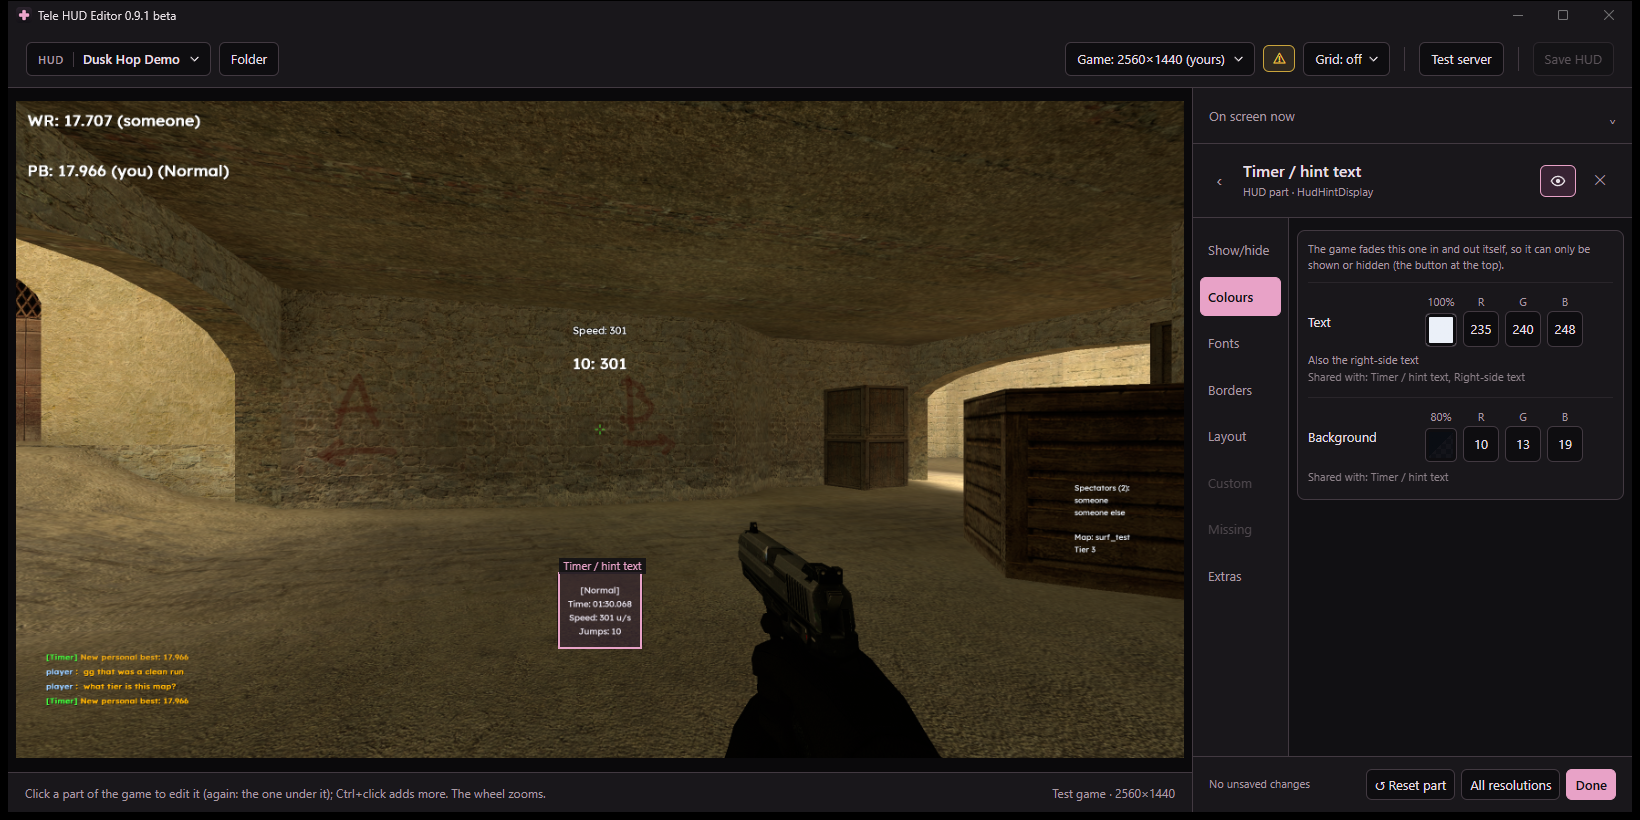
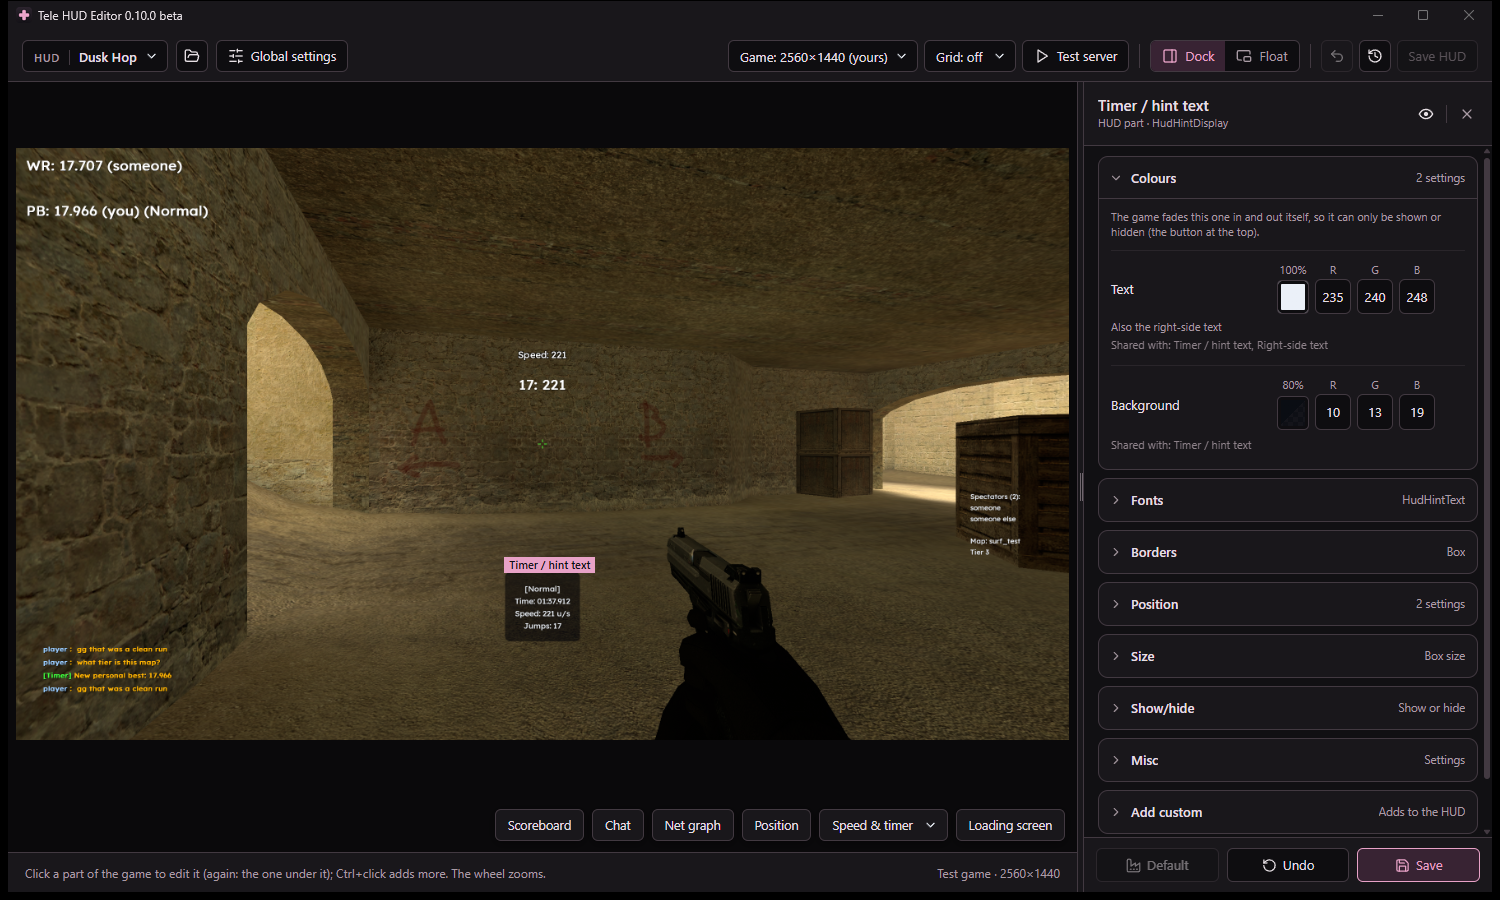
README for 0.10.0 beta: shorter, new pictures
Dock and Float, the new tabs and the main menu buttons, shown on Dusk Hop.

diff --git a/README.md b/README.md
@@ -3,83 +3,68 @@
 Edit Counter-Strike: Source HUDs while the game is running. Click a part of the game, change it, and see the change
 straight away. No text files.
 
-![The editor: the game on the left, the timer box selected and its colours on the right](docs/editor.png)
+![The editor in Dock: the game on the left, the timer box picked and its colours on the right](docs/editor.png)
 
 ## Download
 
 Get **CSSHudEditor.exe** (or the .zip with its license files) from the [Releases](../../releases) page. It is one
-file: nothing to install.
-
-You need:
-- Windows 10 or 11
-- Counter-Strike: Source on Steam
+file: nothing to install. You need Windows 10 or 11 and Counter-Strike: Source on Steam.
 
 This is a **beta**: back up any HUD you care about before you edit it.
 
 ## Getting started
 
-1. Quit CS:S, then open `CSSHudEditor.exe`.
-2. Pick a HUD to edit: one from your custom folder, a new one (**Start a new HUD**), or a downloaded one: drop its
-   folder or its .zip, .rar or .7z on the editor (a copy goes into your custom folder).
-   The editor then starts the game with only that HUD and shows it inside the editor.
-3. Click anything in the game: the health, the scoreboard, the main menu, a window. Its settings show on the right.
-4. Change colours, fonts, sizes and places. The game updates as you go.
-5. **Save HUD** keeps your changes, **Ctrl+Z** undoes, **Discard changes** goes back to the last save. A few settings
-   only show after a game restart: the yellow **⚠** by Save HUD lists them and restarts the game for you.
+1. Open `CSSHudEditor.exe`.
+2. Pick a HUD: one from your custom folder, a new one (**Start a new HUD**), or a downloaded one (drop its folder or
+   its .zip, .rar or .7z on the editor). The editor starts the game with that HUD and shows it inside the editor.
+   A game you started yourself with `-insecure` is joined instead.
+3. Pick **Dock** or **Float** (you can switch any time at the top).
+4. Click anything in the game: the health, the scoreboard, the main menu, a window. Change its colours, fonts, size
+   and place, and the game updates as you go.
+5. **Save HUD** keeps your changes. **Ctrl+Z** undoes. A few settings show only after a game restart: the yellow
+   **⚠** by Save HUD lists them and restarts the game for you.
 
-## See it in action
+## Dock or Float
 
-Click a part and its settings show on the right, a tab for each kind. Here, a team select button's colours, its font,
-and its border with a colour for each side:
+**Dock** keeps a part's settings in a panel beside the game. **Float** opens a card beside the part you click: drag it
+anywhere, pin it to keep it open while you click other parts, or pop it out into a window of its own (another screen
+too).
 
-<p>
-  <img src="docs/tab-colours.png" width="32%" alt="The Colours tab: the button's text and background, normal and under the mouse">
-  <img src="docs/tab-fonts.png" width="32%" alt="The Fonts tab: its face, size for 1440p screens, weight and blur">
-  <img src="docs/tab-borders.png" width="32%" alt="The Borders tab: border colour, thickness, the sides drawn and a colour for each side">
-</p>
-
-**Menus too:** the main menu, its buttons, colours and background, and every in-game window:
-
-![The main menu selected in the editor, with its colours on the right](docs/main-menu.png)
+![Float: a pinned card on the timer box and a card on the right-side text, each beside its part](docs/float.png)
 
 ## What you can do
 
-- **Recolour the whole HUD in a few clicks** with *Colours by kind*: backgrounds, text, borders, buttons, highlights,
-  HUD numbers, warnings.
-- **Change any part**: colours, fonts, size, position, show or hide it. Every setting was checked in the game, and the
-  ones the game ignores aren't offered.
-- **Borders** with their sides, thickness and a colour for each side.
-- **Fonts** for every screen size: split a HUD's fonts into resolutions so they look the same on any monitor.
+- **Change any part**: colours, fonts, borders (a colour for each side), size, position, show or hide it. **Simple
+  mode** shows the main settings, **Advanced** every tab. Every setting was checked in the game.
+- **Fonts for every screen size**, and **Global settings** to change the HUD's fonts all at once.
 - **Add your own pictures, texts and boxes**, animated GIFs too, on the HUD and in windows (scoreboard, team and class
-  select, MOTD, loading screen, buy menu, spectator bars), and command buttons (`say !rtv`...) on team and class select.
-- **Set the main menu background** and buttons, the window backdrop colour and your own **MVP star** picture.
-- **Game settings the HUD can carry**: scoreboard name colours, radar opacity, the net graph and the position text
-  (`cl_showpos`), kept in the HUD and set when the game starts.
-- **Edit the loading screen**: the game holds it open while you work on it.
-- **See everything without joining servers**: toggles keep the scoreboard, chat, net graph and position text on screen,
-  and a test game has sample timer and speed texts, a full scoreboard, the round-end and killer panels and more.
+  select, MOTD, loading screen, buy menu, spectator bars).
+- **The main menu**: rename and reorder its buttons, add buttons that join a server or run a command, set its colours
+  and background.
+- **Game settings the HUD can carry**: scoreboard name colours, radar opacity, the net graph and the position text.
+- **See everything without joining servers**: toggles keep the scoreboard, chat, net graph and position text on
+  screen, a test server has sample timer and speed texts and a full scoreboard, and the loading screen stays open
+  while you edit it.
+- **Save one part at a time**, or go back to how the HUD was when you imported it.
+
+![The main menu picked, its Buttons tab open: rename, reorder, remove](docs/main-menu.png)
 
 ## Good to know
 
-- **VAC:** the editor starts the game with `-insecure`, which plugins need. That game can't join VAC-secured servers.
-  Starting CS:S from Steam as usual is not affected, and your HUD works there like any other.
-- **The plugin:** the editor puts a small plugin in `cstrike/addons` (`schemereload.dll`, and `schemereload.vdf`, which
-  makes the game load it). A game started from Steam would load it too and then couldn't join VAC-secured servers, so
-  the editor puts the `.vdf` in only as it starts the game and moves it aside (`schemereload.vdf.off`) once the plugin
-  is up. To remove the plugin, delete `schemereload.dll` and the `.vdf` / `.vdf.off`.
-- **Game settings in a HUD** (name colours, radar opacity, net graph) run from the HUD's `cfg/valve.rc` before your
-  `autoexec.cfg`, so your own autoexec still wins.
+- **VAC:** the editor starts the game with `-insecure`, which plugins need, so that game can't join VAC-secured
+  servers. Starting CS:S from Steam as usual is not affected, and your HUD works there like any other.
+- **The plugin:** the editor keeps a small plugin in `cstrike/addons` (`schemereload.dll`). Its `.vdf`, which makes the
+  game load it, is only there while the editor starts the game (`schemereload.vdf.off` otherwise), so a game started
+  from Steam doesn't load it. To remove it, delete `schemereload.dll` and the `.vdf` / `.vdf.off`.
 - **Windows warning:** the exe isn't signed, so Windows may say it "protected your PC" the first time. Click
-  *More info* and then *Run anyway*.
+  *More info*, then *Run anyway*.
 
 ## Building from source
 
-You need the Visual Studio 2022 Build Tools (C++) and two SDKs that aren't in this repo:
-- [Source SDK 2013](https://github.com/ValveSoftware/source-sdk-2013) checked out in `hudreload/sdk/`
-- the WebView2 SDK (the `Microsoft.Web.WebView2` NuGet package, unzipped) in `app/webview2/`
-
-`build-all.bat` builds the plugin, installs it into the game and builds `app/CSSHudEditor.exe` (it closes the game and
-the editor first). `app\build.bat` builds only the exe.
+You need the Visual Studio 2022 Build Tools (C++), [Source SDK 2013](https://github.com/ValveSoftware/source-sdk-2013)
+checked out in `hudreload/sdk/`, and the WebView2 SDK (the `Microsoft.Web.WebView2` NuGet package, unzipped) in
+`app/webview2/`. `build-all.bat` builds the plugin, installs it into the game and builds `app/CSSHudEditor.exe`;
+`app\build.bat` builds only the exe.
 
 ## License
 
